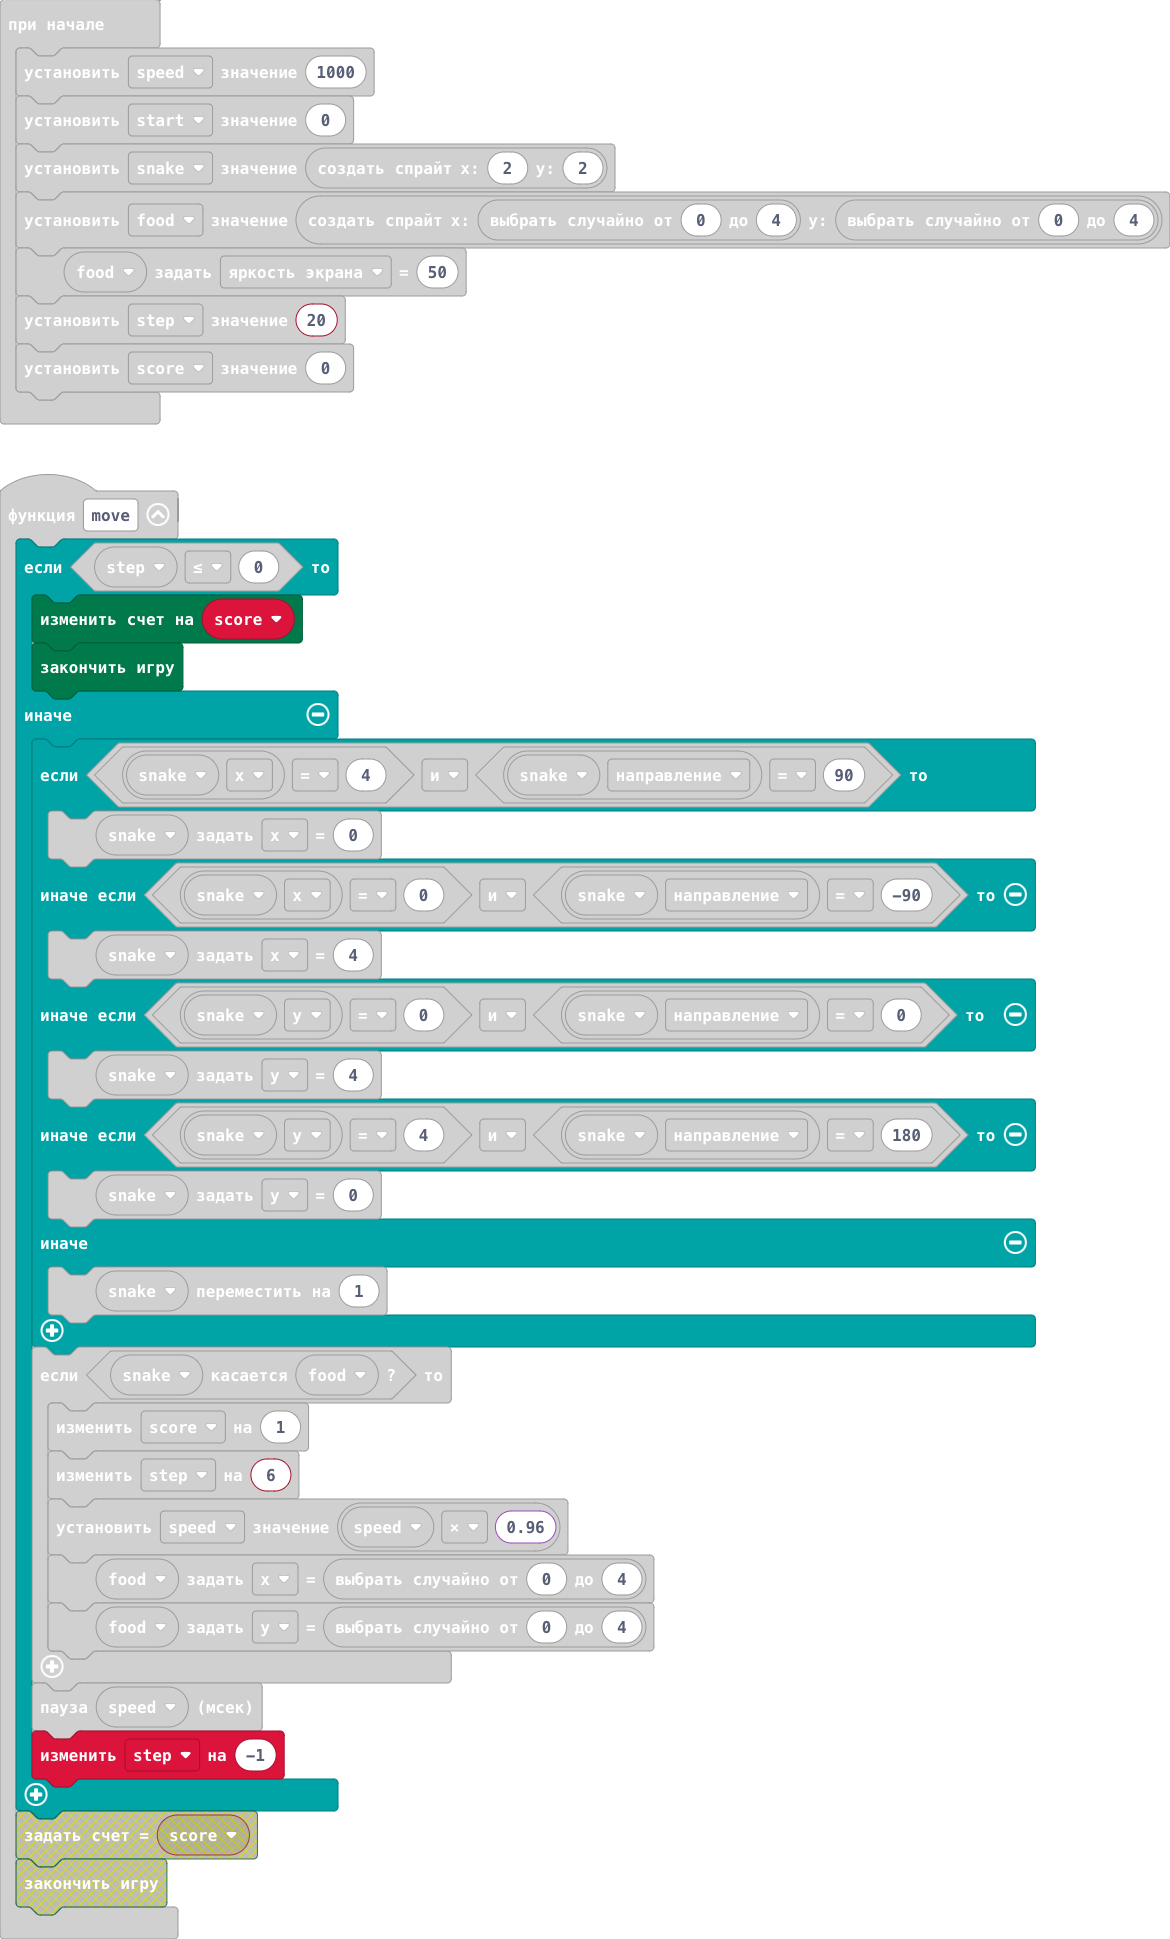
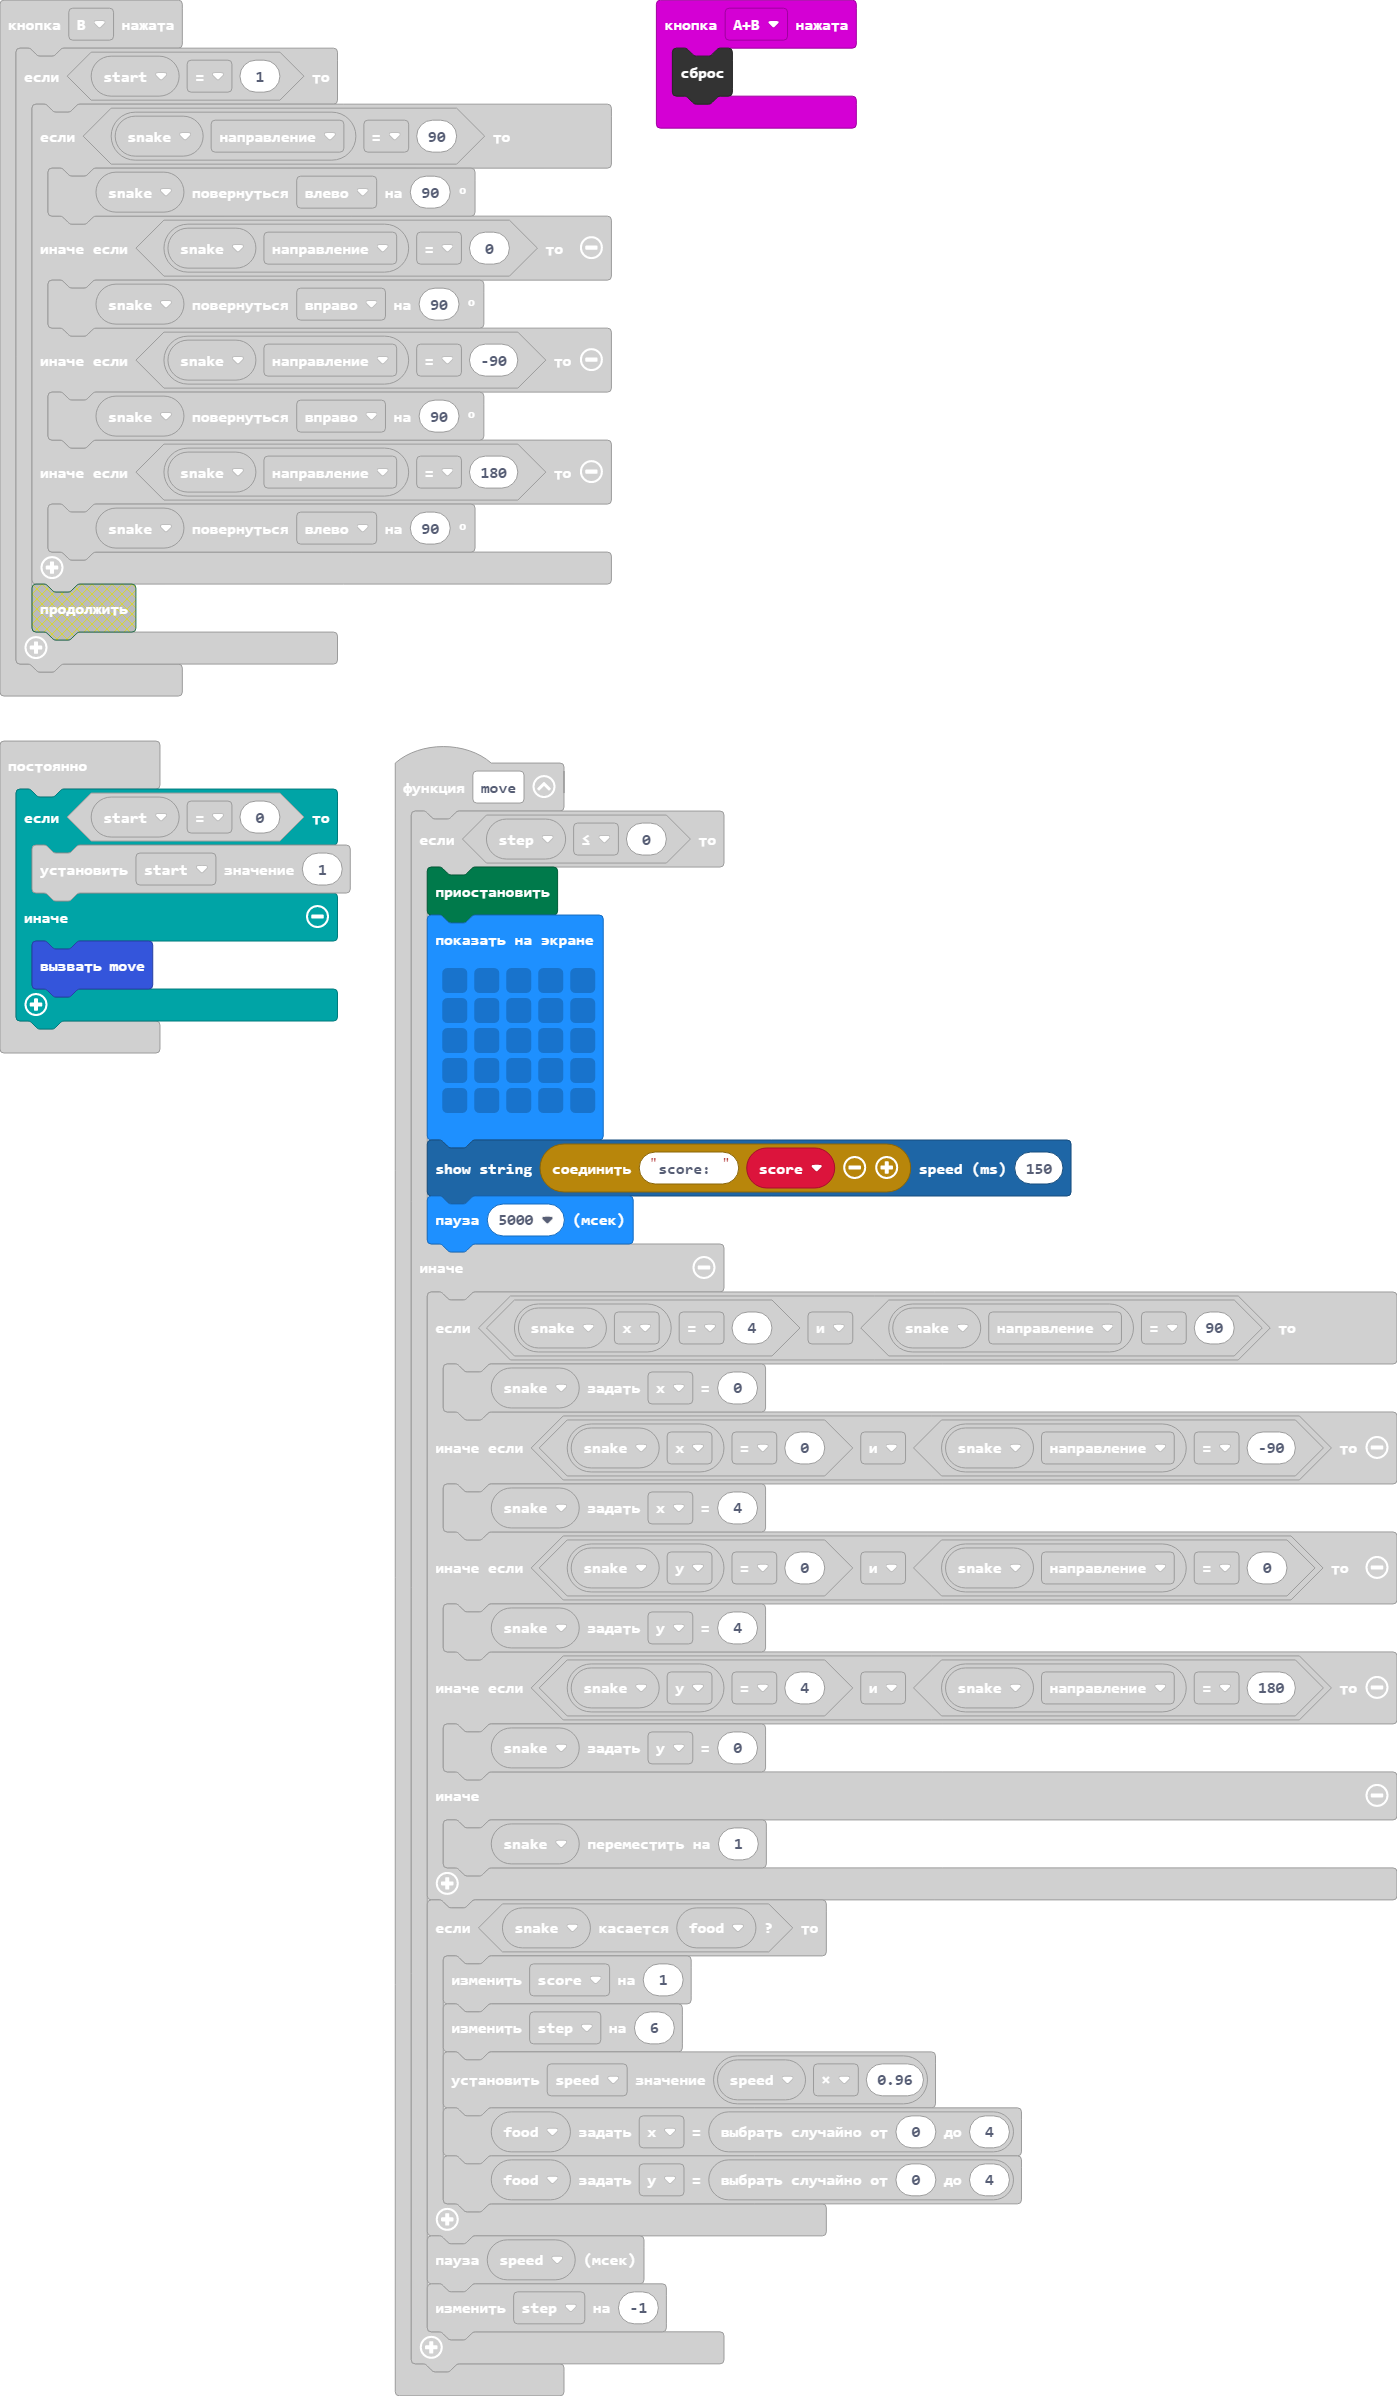
score

diff --git a/main.ts b/main.ts
@@ -11,6 +11,9 @@ input.onButtonPressed(Button.A, function () {
         }
     }
 })
+input.onButtonPressed(Button.AB, function () {
+    control.reset()
+})
 input.onButtonPressed(Button.B, function () {
     if (start == 1) {
         if (snake.get(LedSpriteProperty.Direction) == 90) {
@@ -22,13 +25,20 @@ input.onButtonPressed(Button.B, function () {
         } else if (snake.get(LedSpriteProperty.Direction) == 180) {
             snake.turn(Direction.Left, 90)
         }
-        game.resume()
     }
 })
 function move () {
     if (step <= 0) {
-        game.addScore(score)
-        game.gameOver()
+        game.pause()
+        basic.showLeds(`
+            . . . . .
+            . . . . .
+            . . . . .
+            . . . . .
+            . . . . .
+            `)
+        proportionalFont.showString("score: " + score, 150)
+        basic.pause(5000)
     } else {
         if (snake.get(LedSpriteProperty.X) == 4 && snake.get(LedSpriteProperty.Direction) == 90) {
             snake.set(LedSpriteProperty.X, 0)
@@ -66,8 +76,9 @@ food.set(LedSpriteProperty.Brightness, 50)
 step = 20
 score = 0
 basic.forever(function () {
-    move()
     if (start == 0) {
         start = 1
+    } else {
+        move()
     }
 })
